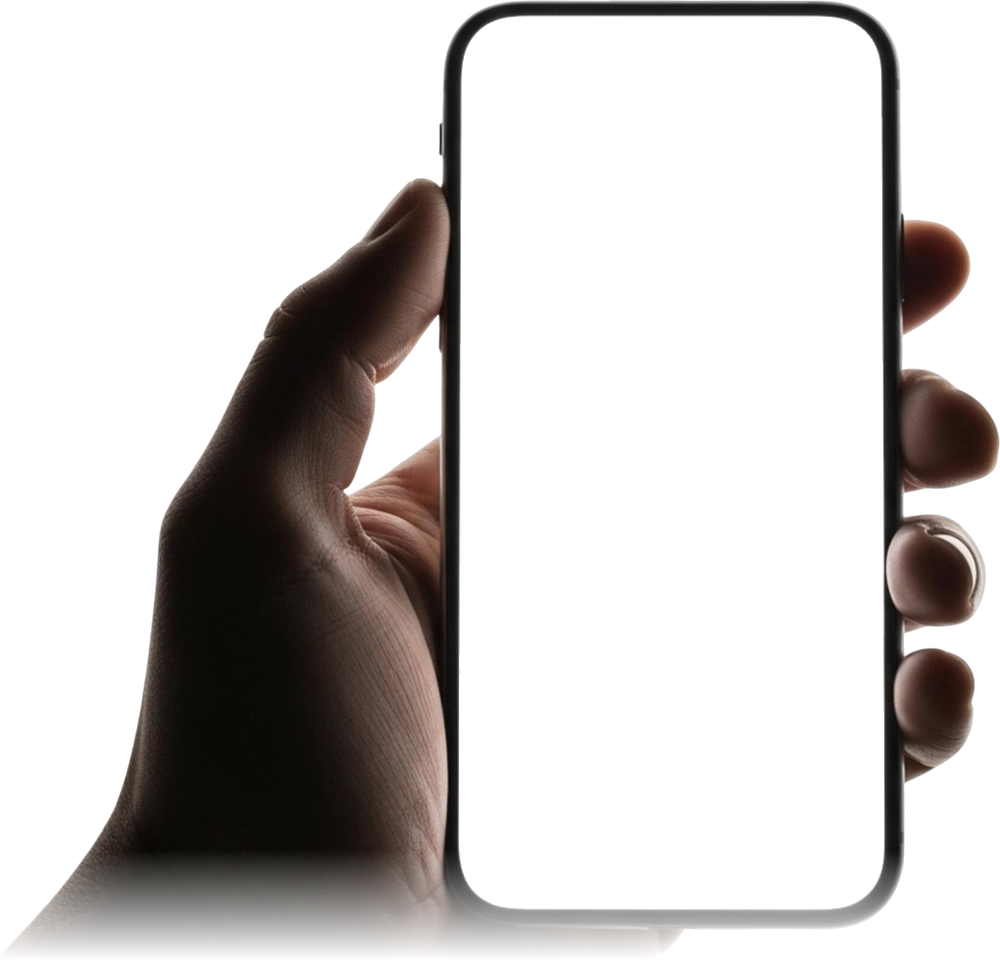
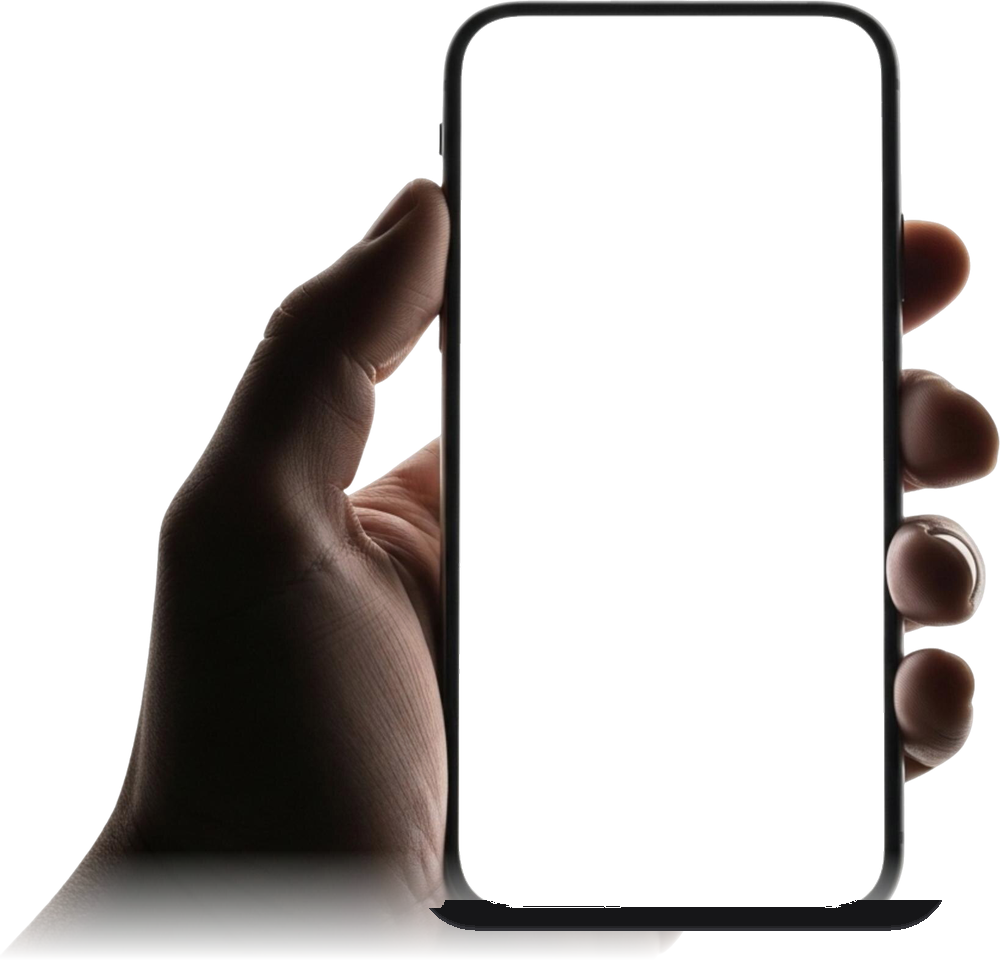
fix(landing): increase pill-to-mockup spacing and enclose demo seamlessly in phone frame

Changed region(s): [[0.434, 0.9375, 0.961, 0.9688]]

diff --git a/frontend/src/components/PhoneFrame.tsx b/frontend/src/components/PhoneFrame.tsx
@@ -3,7 +3,7 @@ import { cn } from '@/lib/cn'
 
 // Hand variant (home page only): public/phone-frame.png, a hand holding a phone, 1000×960, screen cut out.
 const IMG = { w: 1000, h: 960 }
-const SCREEN = { left: 464, top: 22, w: 415, h: 880 }
+const SCREEN = { left: 461, top: 19, w: 420, h: 889 }
 
 // Standard iPhone 14 / 15 / 16 Viewport
 export const IPHONE_W = 390
@@ -47,19 +47,36 @@ export function PhoneFrame({
   if (variant === 'hand') {
     const k = width / SCREEN.w
     const h = width * (SCREEN.h / SCREEN.w)
-    const borderRadius = Math.round(width * 0.11)
+    const borderRadius = Math.round(width * 0.108)
+    const topBezelHeight = Math.ceil(SCREEN.top * k)
+    const bottomExtra = Math.max(0, (IMG.h - SCREEN.top - SCREEN.h) * k)
+
     return (
       <div
         className={cn('relative mx-auto isolate max-w-full', className)}
-        style={{ width, height: h, marginBottom: (IMG.h - SCREEN.top - SCREEN.h) * k }}
+        style={{
+          width,
+          height: h,
+          marginTop: topBezelHeight + 6,
+          marginBottom: bottomExtra,
+        }}
         {...a11y}
       >
+        {/* Dark phone backing so no white sub-pixel gap can ever show outside the cutout */}
         <div
-          className="absolute inset-0 overflow-hidden bg-white z-0 shadow-lg"
+          className="absolute inset-0 bg-[#0c0c0e]"
+          style={{ borderRadius }}
+        />
+
+        {/* Screen container strictly matching cut-out geometry */}
+        <div
+          className="absolute inset-0 overflow-hidden bg-white z-0"
           style={{ borderRadius }}
         >
           {children}
         </div>
+
+        {/* Phone Frame and hand overlay with authentic drop shadow on the device */}
         <img
           src="/phone-frame.png"
           alt=""
@@ -67,8 +84,13 @@ export function PhoneFrame({
           width={IMG.w}
           height={IMG.h}
           draggable={false}
-          className="pointer-events-none absolute max-w-none select-none z-30"
-          style={{ left: -SCREEN.left * k, top: -SCREEN.top * k, width: IMG.w * k, height: IMG.h * k }}
+          className="pointer-events-none absolute max-w-none select-none z-30 drop-shadow-xl"
+          style={{
+            left: -SCREEN.left * k,
+            top: -SCREEN.top * k,
+            width: IMG.w * k,
+            height: IMG.h * k,
+          }}
         />
       </div>
     )

diff --git a/frontend/src/pages/landing/EcommercePhoneApp.tsx b/frontend/src/pages/landing/EcommercePhoneApp.tsx
@@ -147,7 +147,7 @@ export function EcommercePhoneApp({
   return (
     <div className={`relative flex flex-col items-center ${className}`}>
       {/* Screen selector chips */}
-      <div className="mb-2.5 sm:mb-5 flex flex-wrap items-center justify-center gap-1 sm:gap-1.5 px-1">
+      <div className="mb-6 sm:mb-8 flex flex-wrap items-center justify-center gap-1 sm:gap-1.5 px-1">
         {[
           { id: 'storefront', label: '1. Storefront' },
           { id: 'product', label: '2. Product Details' },
@@ -183,8 +183,8 @@ export function EcommercePhoneApp({
           className="relative h-full w-full bg-[#FCFCFD] text-stone-900 overflow-hidden font-sans select-none flex flex-col"
           onMouseEnter={() => setIsPaused(true)}
         >
-          {/* Top Ecommerce Sticky Nav */}
-          <div className="sticky top-0 z-10 flex items-center justify-between border-b border-stone-100 bg-white/95 px-2.5 py-1.5 backdrop-blur-md">
+          {/* Top Ecommerce Sticky Nav with safe area padding */}
+          <div className="sticky top-0 z-10 flex items-center justify-between border-b border-stone-100 bg-white/95 px-2.5 pt-2 pb-1.5 sm:pt-2.5 sm:pb-2 backdrop-blur-md">
             <div className="flex items-center gap-1.5">
               <div className="flex size-6 items-center justify-center rounded-md bg-stone-900 text-[10px] font-black text-white">
                 2S
@@ -655,8 +655,8 @@ export function EcommercePhoneApp({
             </AnimatePresence>
           </div>
 
-          {/* Bottom App Navigation Bar */}
-          <div className="sticky bottom-0 z-30 flex items-center justify-around border-t border-stone-100 bg-white/95 py-2 backdrop-blur-md">
+          {/* Bottom App Navigation Bar with safe area padding */}
+          <div className="sticky bottom-0 z-30 flex items-center justify-around border-t border-stone-100 bg-white/95 px-2 pt-1.5 pb-2.5 sm:pb-3 backdrop-blur-md">
             <button
               type="button"
               onClick={() => setScreen('storefront')}

diff --git a/frontend/src/pages/landing/BookingPhoneApp.tsx b/frontend/src/pages/landing/BookingPhoneApp.tsx
@@ -95,7 +95,7 @@ export function BookingPhoneApp({
   return (
     <div className={`relative flex flex-col items-center ${className}`}>
       {/* Screen selector chips above or below */}
-      <div className="mb-2.5 sm:mb-5 flex flex-wrap items-center justify-center gap-1 sm:gap-1.5 px-1">
+      <div className="mb-6 sm:mb-8 flex flex-wrap items-center justify-center gap-1 sm:gap-1.5 px-1">
         {[
           { id: 'home', label: '1. Explore' },
           { id: 'salon', label: '2. Salon' },
@@ -141,7 +141,7 @@ export function BookingPhoneApp({
                   animate={{ opacity: 1, x: 0 }}
                   exit={{ opacity: 0, x: -15 }}
                   transition={{ duration: 0.2 }}
-                  className="p-2.5 pt-3 text-stone-900"
+                  className="p-2.5 pt-3.5 sm:pt-4 text-stone-900"
                 >
                   {/* Top Bar with user greeting */}
                   <div className="flex items-center justify-between">
@@ -854,7 +854,7 @@ export function BookingPhoneApp({
           </div>
 
           {/* Bottom App Navigation Bar (Home, Booking, Saved, Message, Profile) */}
-          <div className="absolute inset-x-0 bottom-0 z-20 flex h-9 items-center justify-around border-t border-stone-100 bg-white/95 px-2 backdrop-blur-md">
+          <div className="absolute inset-x-0 bottom-0 z-20 flex h-10 items-center justify-around border-t border-stone-100 bg-white/95 px-2 pb-1.5 backdrop-blur-md">
             {[
               { id: 'home', label: 'Home', icon: Scissors, screen: 'home' as ScreenId },
               { id: 'booking', label: 'Booking', icon: Calendar, screen: 'step1' as ScreenId },

diff --git a/frontend/src/pages/landing/Hero.tsx b/frontend/src/pages/landing/Hero.tsx
@@ -279,7 +279,7 @@ export function Hero() {
             className="order-1 lg:order-2"
           >
             <div className="relative z-0 pb-3 pt-1 sm:pt-0">
-              <div className="mb-2 sm:mb-3.5 flex items-center justify-center gap-1.5">
+              <div className="mb-3 sm:mb-4.5 flex items-center justify-center gap-1.5">
                 <button
                   type="button"
                   onClick={() => setPreviewMode('ecommerce')}
